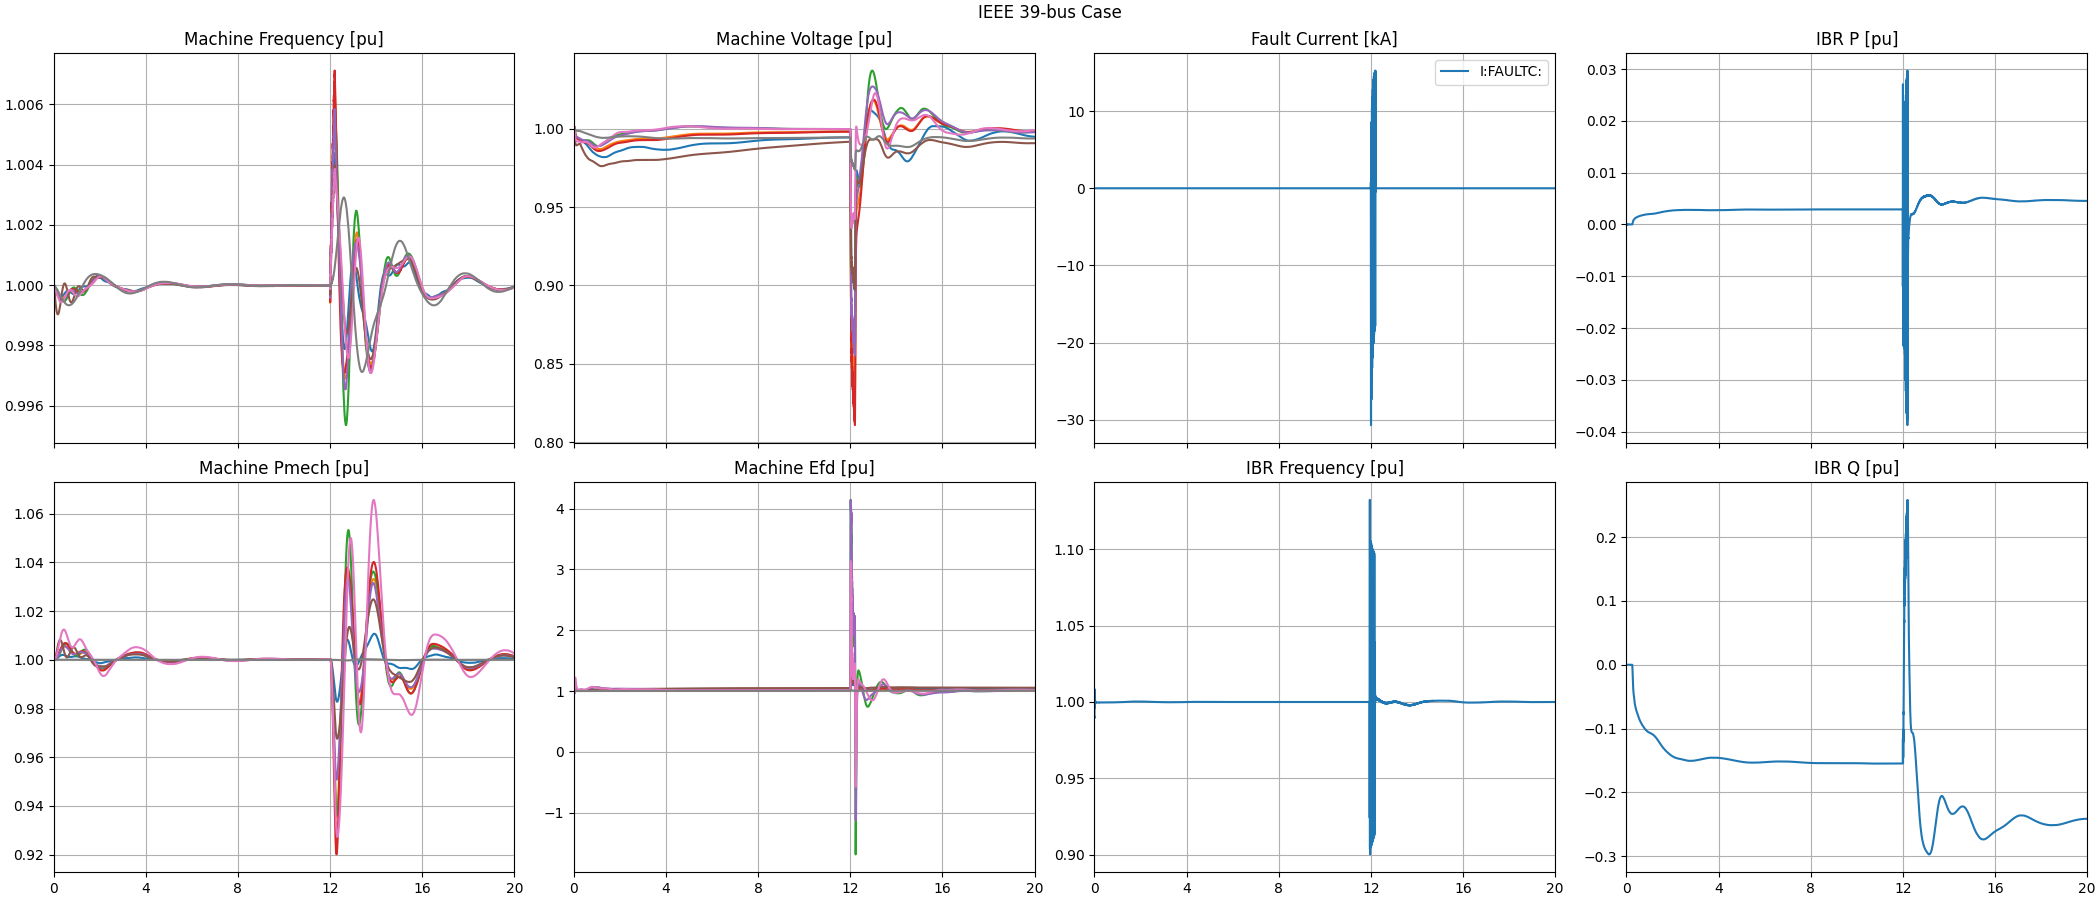
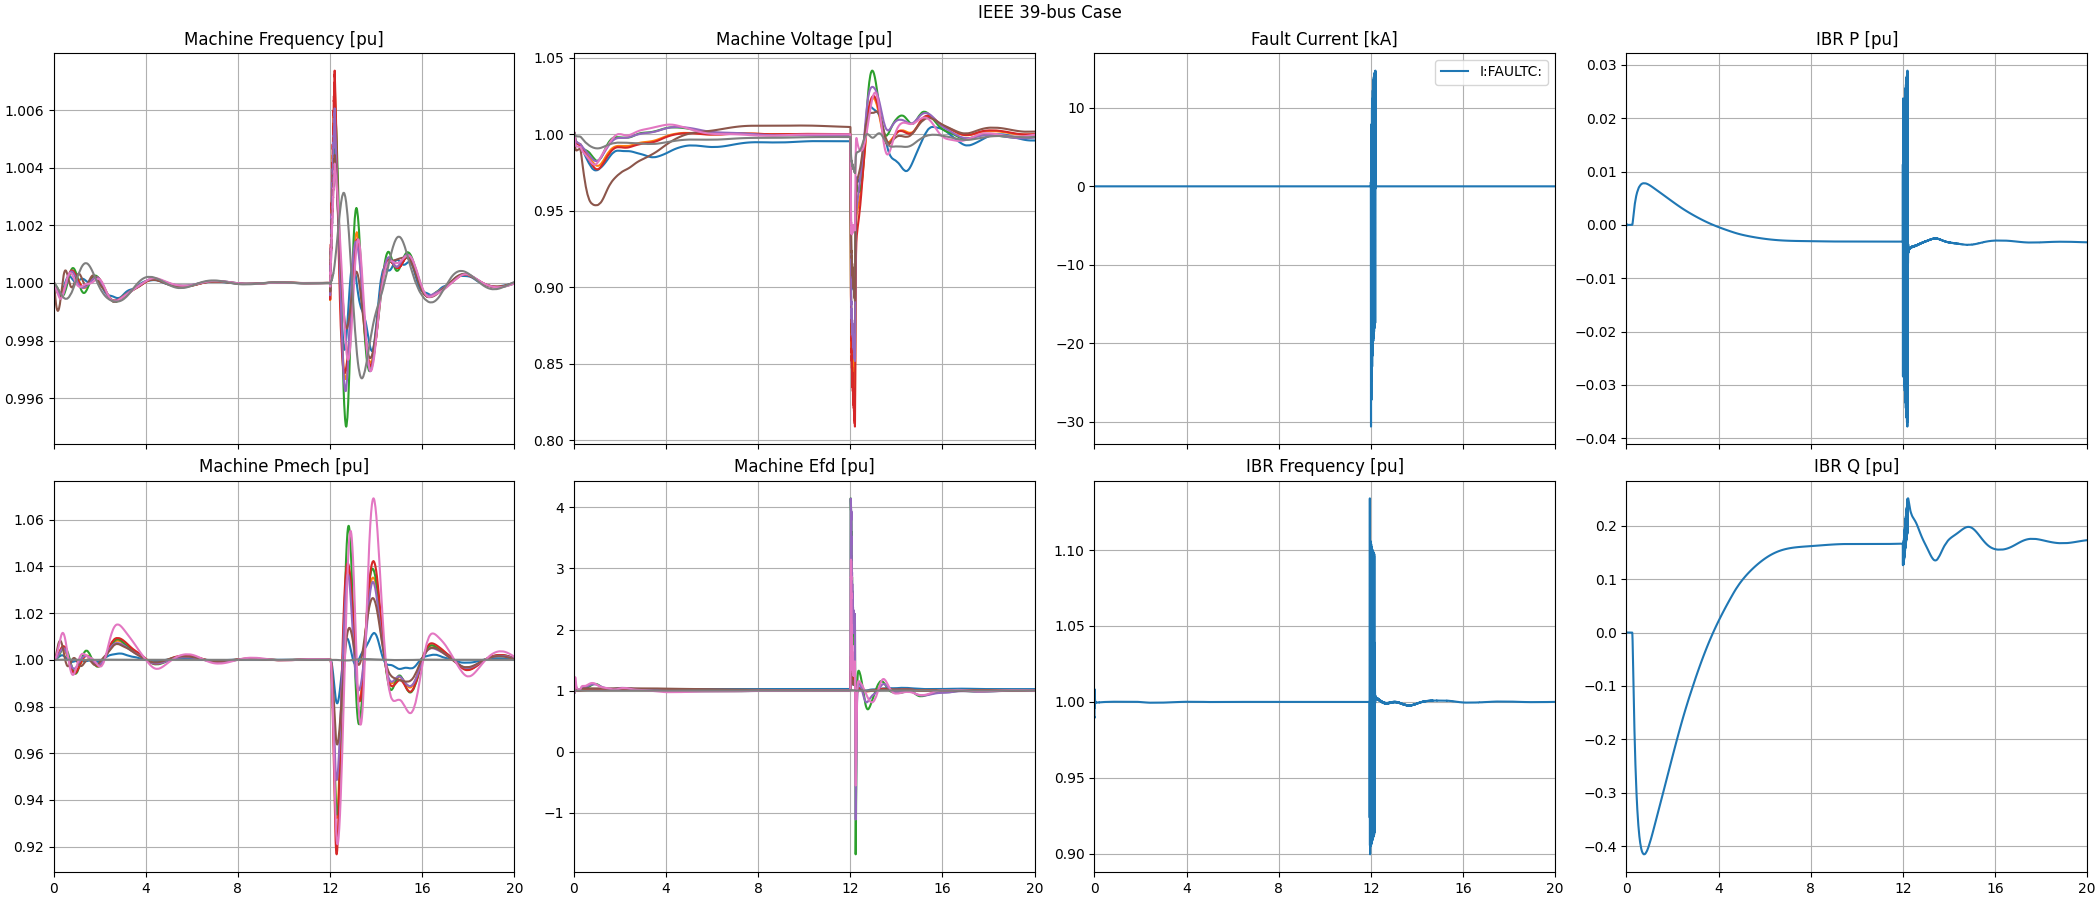
corrected Kp<=>Ki in ibr.dbm, running IEEE 39 with WECC dyr parameters

diff --git a/src/emthub/create_atp.py b/src/emthub/create_atp.py
@@ -414,6 +414,8 @@ def AppendSolar (bus, vbase, sbase, ibase, ppu, qpu, vpu, ap, ibr_count, reec, r
   #print ('REEC', reec)
   #print ('REGC', regc)
   #print ('REPC', repc)
+  print (reec['vFlag'], reec['qFlag'], reec['pqFlag'], reec['pfFlag'], repc['refFlag'], repc['vcmpFlag'], repc['frqFlag'], regc['ivplsw'], reec['pFlag'],
+         reec['kqv'], reec['kqp'], reec['kqi'], reec['kvp'], reec['kvi'], repc['kp'], repc['ki'], repc['kpg'], repc['kig'])
   sbus = AtpBus (bus)
   sname = 'IBR{:02d}'.format (ibr_count)
   if ppu > 0.0:
@@ -440,7 +442,7 @@ def AppendSolar (bus, vbase, sbase, ibase, ppu, qpu, vpu, ap, ibr_count, reec, r
                                frqflag = AtpFit6 (int(repc['frqFlag']=='true')),
                                lvpsw = AtpFit6 (int(regc['ivplsw']=='true')),
                                tanpf = AtpFit6 (tanpf),
-                               pflag = AtpFit6 (int(reec['vFlag']=='true')),
+                               pflag = AtpFit6 (int(reec['pFlag']=='true')),
                                pmin = AtpFit6 (reec['pmin']),
                                pmax = AtpFit6 (reec['pmax']),
                                iqrmin = AtpFit6 (regc['iqrmin']),
@@ -458,13 +460,13 @@ def AppendSolar (bus, vbase, sbase, ibase, ppu, qpu, vpu, ap, ibr_count, reec, r
                                imax = AtpFit6 (reec['imax']),
                                qmin = AtpFit6 (repc['qmin']),
                                qmax = AtpFit6 (repc['qmax']),
-                               kqp = AtpFit6 (reec['kqp']),
+                               kqp = AtpFit6 (max(1e-8, reec['kqp'])),
                                kqi = AtpFit6 (reec['kqi']),
-                               kvp = AtpFit6 (reec['kvp']),
-                               kvi = AtpFit6 (reec['kvi']),
-                               kp = AtpFit6 (repc['kp']),
+                               kvp = AtpFit6 (max(1e-8, reec['kvp'])), #AtpFit6 (min(0.2, reec['kvp'])), 
+                               kvi = AtpFit6 (reec['kvi']),            #AtpFit6 (min(5.0, reec['kvi'])), 
+                               kp = AtpFit6 (max(1e-8, repc['kp'])),   #AtpFit6 (min(1.0, repc['kp'])), #
                                ki = AtpFit6 (repc['ki']),
-                               kpg = AtpFit6 (repc['kpg']),
+                               kpg = AtpFit6 (max(1e-8, repc['kpg'])),
                                kig = AtpFit6 (repc['kig'])), file=ap)
 
 def AppendType14Generator (cn1id, bus, vbase, rmva, Xdp, Ra, icd, mw, mvar, ap, gsu_ang):
@@ -592,7 +594,7 @@ def AppendMachineDynamics (bus, vpu, deg, mach, gov, exc, pss, ap, gsu_ang):
   tqopp = mach['Tqopp']
   if xqpp < xl or xqpp < xdpp:
     xnew = max(xl, xdpp)
-    print ('  changing xqpp from', xqpp, 'to', xnew, 'at', bus)
+    #print ('  changing xqpp from', xqpp, 'to', xnew, 'at', bus)
     xqpp = xnew
   x0 = 1.0 * xl  # REVISIT
   rn = 900.0 # 0.0
@@ -784,13 +786,13 @@ def ParallelMachines (d, icd, atp_buses):
         row = d[key]
         for tag in ['ratedS', 'p', 'q', 'minP', 'maxP', 'minQ', 'maxQ']:
           par[parkey][tag] += row[tag]
-  print ('Generator  Bus           MVA          P      Vpu     Vdeg')
-  for key, row in par.items():
-    print ('{:10s} {:6s} {:10.2f} {:10.2f} {:8.4f} {:8.4f}'.format (row['name'], 
-                                                                    row['bus'], 
-                                                                    row['ratedS']*1e-6, 
-                                                                    row['p']*1e-6,
-                                                                    row['vpu'], row['deg']))
+# print ('Generator  Bus           MVA          P      Vpu     Vdeg')
+# for key, row in par.items():
+#   print ('{:10s} {:6s} {:10.2f} {:10.2f} {:8.4f} {:8.4f}'.format (row['name'],
+#                                                                   row['bus'],
+#                                                                   row['ratedS']*1e-6,
+#                                                                   row['p']*1e-6,
+#                                                                   row['vpu'], row['deg']))
   return par
 
 # over-write the CIM power with initial conditions
@@ -1266,21 +1268,21 @@ def create_atp (d, icd, fpath, case):
     gen_dyn = {}
     for q, res in d.items():
       if q.startswith ('EMTExc') and len(res['vals']) > 0:
-        print ('Exciters', q, res['columns'])
+        #print ('Exciters', q, res['columns'])
         for dyn_key, dyn_row in res['vals'].items():
           eqid = dyn_row['eqid']
           if eqid not in gen_dyn:
             gen_dyn[eqid] = {'gov': None, 'exc': None, 'pss':None}
           gen_dyn[eqid]['exc'] = {'type':q, 'data': dyn_row}
       elif q.startswith ('EMTPss') and len(res['vals']) > 0:
-        print ('Stabilizers', q, res['columns'])
+        #print ('Stabilizers', q, res['columns'])
         for dyn_key, dyn_row in res['vals'].items():
           eqid = dyn_row['eqid']
           if eqid not in gen_dyn:
             gen_dyn[eqid] = {'gov': None, 'exc': None, 'pss':None}
           gen_dyn[eqid]['pss'] = {'type':q, 'data': dyn_row}
       elif q.startswith ('EMTGov') and len(res['vals']) > 0:
-        print ('Governors', q, res['columns'])
+        #print ('Governors', q, res['columns'])
         for dyn_key, dyn_row in res['vals'].items():
           eqid = dyn_row['eqid']
           if eqid not in gen_dyn:

diff --git a/cim/cim_to_atp.py b/cim/cim_to_atp.py
@@ -2,11 +2,7 @@
 
 import rdflib
 import sys
-#import math
-#import cmath
 import os
-#import numpy as np
-#import json
 import cim_examples
 import emthub.api as emthub
 
